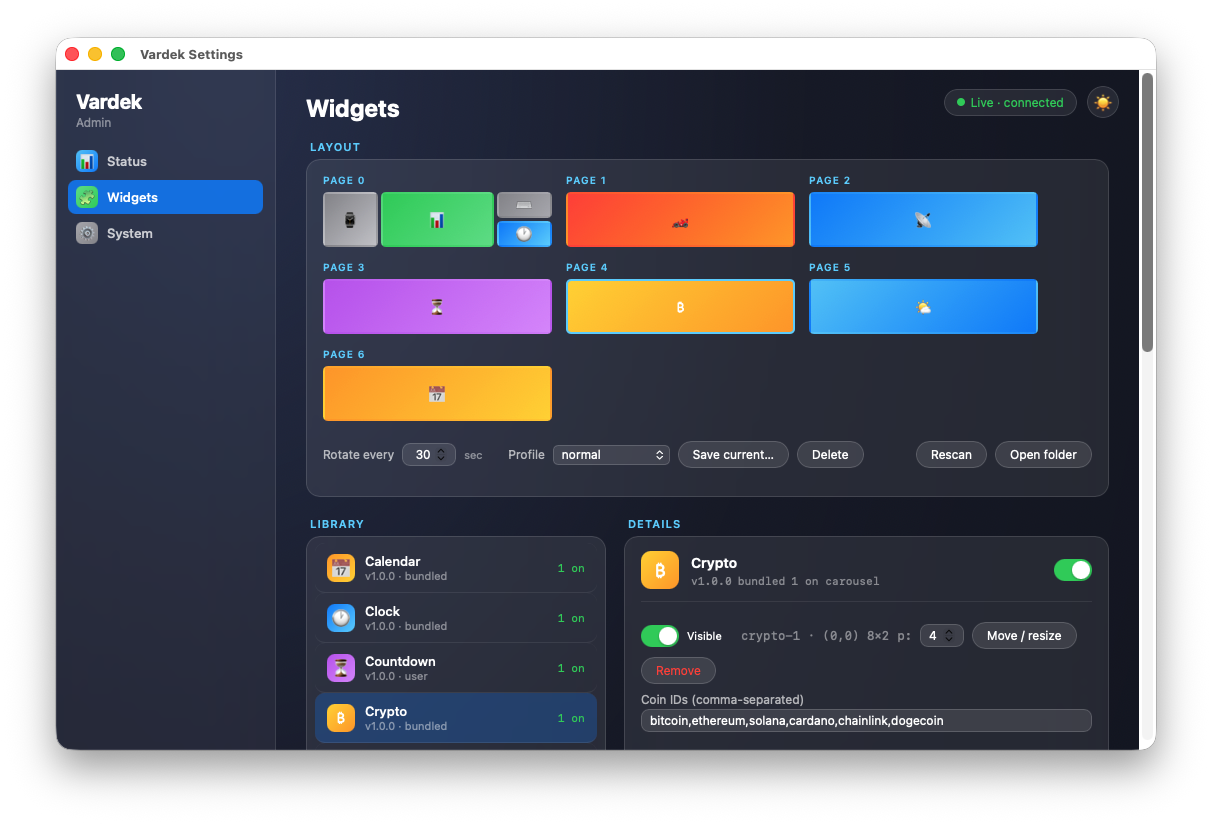
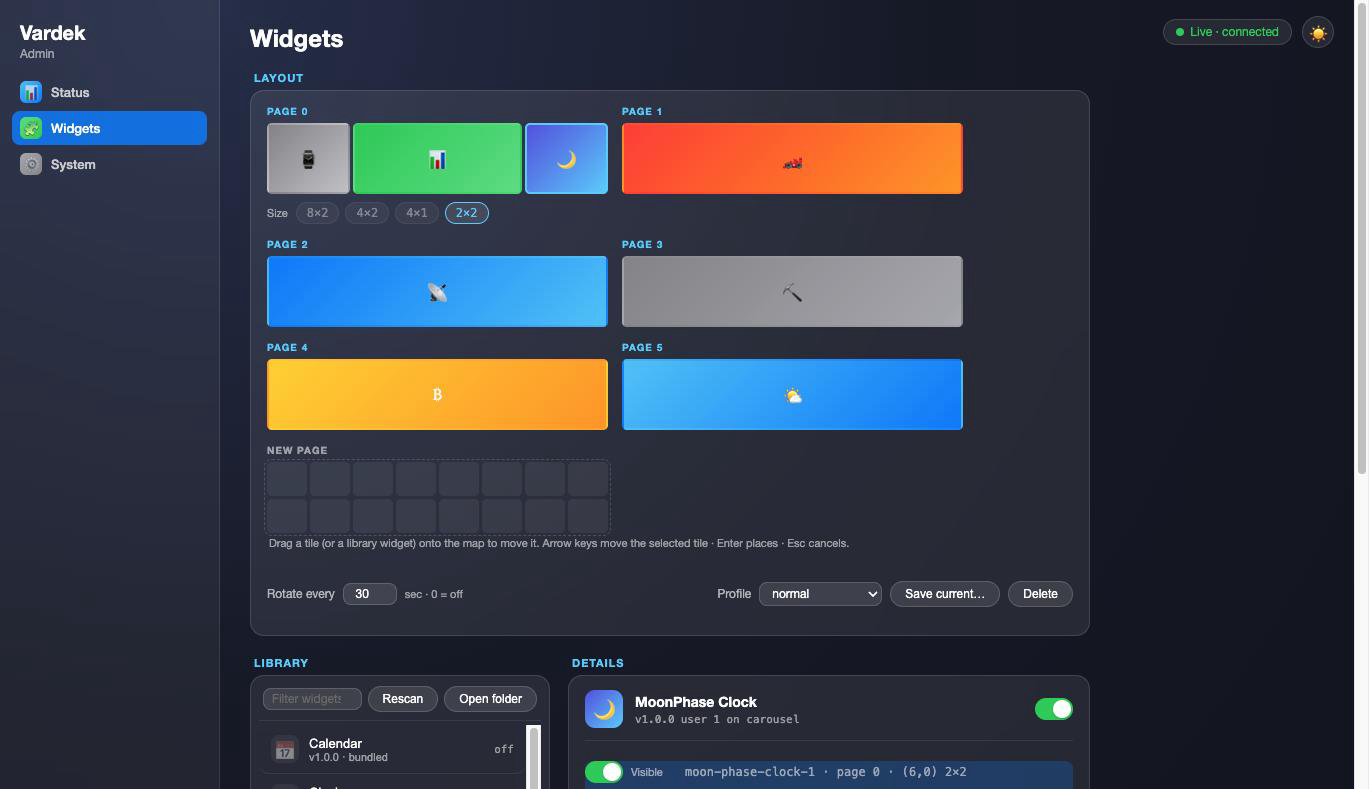
README: document drag-and-drop admin editor; refresh Widgets screenshot (1.0.6)

diff --git a/README.md b/README.md
@@ -78,6 +78,12 @@ Open Admin**, ⌘A) or in any browser at `http://127.0.0.1:8137/admin`. Either w
 no config files to hand-edit: live status, widget library and placement, per-widget
 settings, layout profiles, background, brightness, and sensor picks.
 
+Arranging the panel is direct manipulation: **drag widgets onto a live page map**
+(or between pages, or onto a "New page" target), resize with per-widget size
+chips, and filter the library as you type. The whole editor also works from the
+keyboard, removals ask first and offer a 10-second **Undo**, and every change
+confirms with a "Saved ✓" pulse.
+
 | | |
 |---|---|
 | ![Admin — Status](assets/screenshots/admin-status.png) | ![Admin — Widgets](assets/screenshots/admin-widgets.png) |
